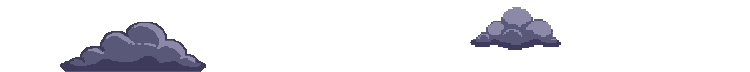
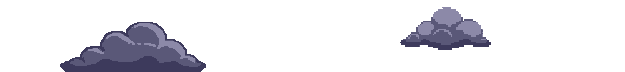
Clouds: slower (~45 px/s) and closer together; sw.js v118

Changed region(s): [[0.0608, 0.3056, 0.3344, 1.0], [0.608, 0.0833, 0.7904, 0.6944]]

diff --git a/css/gameCanvas.css b/css/gameCanvas.css
@@ -252,22 +252,23 @@
        width, the pattern is pixel-identical to its start, so the loop has
        no seam and needs no extra box sizing. */
     /* Pixel clouds (2026-10-27, Jeremy picked pair "A + D" from PixelLab):
-       Assets/scene/clouds-tile.png is a 750x72 transparent tile holding both
+       Assets/scene/clouds-tile.png is a 625x72 transparent tile holding both
        clouds (sources in Assets/scene/_source/cloud-a.png, cloud-d.png), drawn
-       at an exact 2x (1500x144) like the church. Same-day follow-up: tile widened
-       1100 -> 1500px on screen so the two clouds sit ~500px apart (spread out
-       more) and drift slowed ~20% (see the duration below). */
+       at an exact 2x (1250x144) like the church. Same-day follow-ups: tile
+       widened 1100 -> 1500px (spread out), then pulled in to 1250px so the two
+       clouds sit an even ~390px apart, and the drift slowed twice (see below). */
     background-image: url("../Assets/scene/clouds-tile.png");
     background-repeat: repeat-x;
-    background-size: 1500px 144px;
+    background-size: 1250px 144px;
     background-position: 0 0;
     image-rendering: pixelated;
     /* 70s -> 12s -> 7s (two rounds of speed feedback) -> 15s now that the
        tile widened 500px -> 1100px (2026-07-21) — scaled up proportionally
        so px/sec on-screen speed stays exactly what Jeremy just approved;
        this round was about cloud COUNT, not pace. */
-    /* 2026-10-27: 1100px/15s (73 px/s) -> 1500px/26s (58 px/s), "a tad" slower. */
-    animation: cloud-idle-drift 26s linear infinite;
+    /* 2026-10-27: 1100px/15s (73 px/s) -> 1500px/26s (58 px/s) -> 1250px/28s
+       (~45 px/s), each a "tad" slower at Jeremy's request. */
+    animation: cloud-idle-drift 28s linear infinite;
 }
 
 /* Drifts right ("wind" direction, Jeremy's call) while idle. Paused via
@@ -282,7 +283,7 @@
 
 @keyframes cloud-idle-drift {
     from { background-position-x: 0; }
-    to { background-position-x: 1500px; }
+    to { background-position-x: 1250px; }
 }
 
 /* Far silhouettes (hill + bare trees): slower parallax than clouds.

diff --git a/sw.js b/sw.js
@@ -15,7 +15,7 @@
  * edited CSS/JS) so returning users pick up the update instead of serving a
  * stale cached shell forever — the whole point of a version string here.
  */
-const CACHE_NAME = 'deadline-shell-v117';
+const CACHE_NAME = 'deadline-shell-v118';
 
 const APP_SHELL = [
     './',
